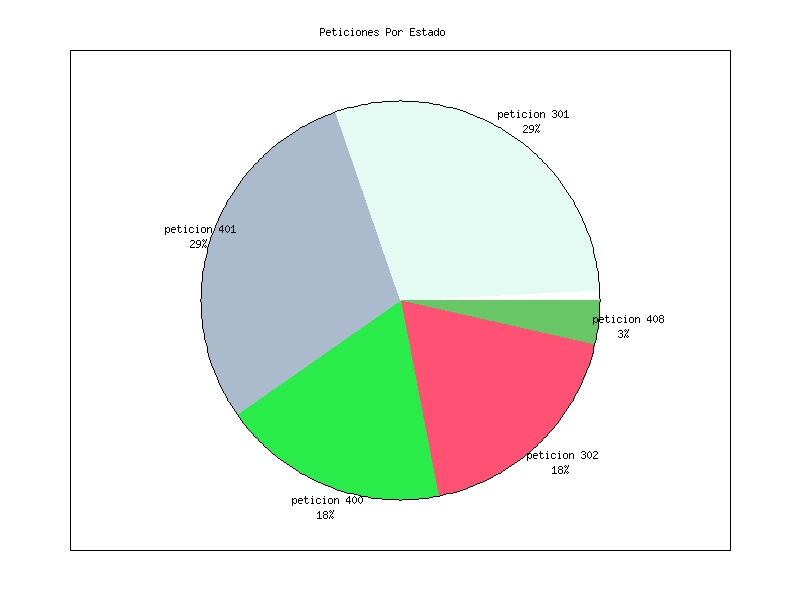
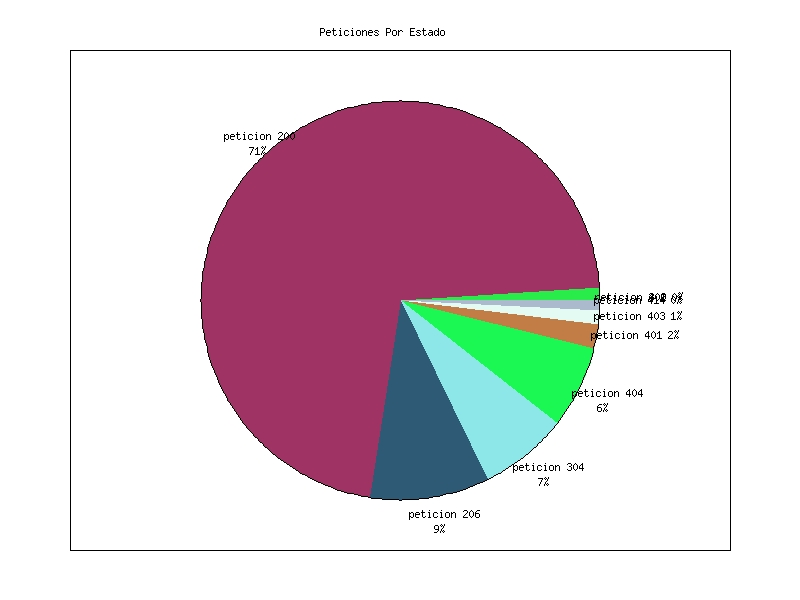
Listas las opciones -g -t y -v

Changed region(s): [[0.2188, 0.15, 0.8438, 0.87], [0.2812, 0.21, 0.3125, 0.24]]

diff --git a/Tarea01-2S.cpp b/Tarea01-2S.cpp
@@ -25,7 +25,7 @@ void informacion(){
     strftime( fechayhora, 80, "%Y-%m-%d %X", punterotm);
     printf("Fecha de Compilaci\242n: %d-%02d-%02d %s", YEAR, MONTH +1, DAY, __TIME__);
     printf("\nFecha y hora actual: %s", fechayhora);
-    printf("\nVersion 0.0.1");
+    printf("\nVersion 0.0.9");
     printf("\n\nIntegrantes: \n Alejandra Mu\xA4oz\n Henry Sep\243lveda\n");
 }
 
@@ -64,7 +64,7 @@ void opciong(char *fecha_inicio, char *fecha_termino){
             //Copia el resultado de la consulta al arreglo
             for (i=0; i<tuplas; i++) {         
                 cantpetpormes[atoi(PQgetvalue(res,i,0))-1] = atol(PQgetvalue(res,i,1));
-                
+                /*
                 for (j=0; j<campos; j++) {
                     printf(" %s ", PQgetvalue(res,i,j));
                     if (j==0){                         //No repetir linea vertical
@@ -72,7 +72,7 @@ void opciong(char *fecha_inicio, char *fecha_termino){
                     }
                 }
                 printf("\n"); 
-                
+               */ 
              }
             graficobarras(cantpetpormes); 
             printf("\nEl grafico de barras ha sido guardado como grafico.jpg en el directorio actual\n");
@@ -103,7 +103,7 @@ void opciont(char *fecha_inicio, char *fecha_termino){
         
         if (PQstatus(conn) != CONNECTION_BAD){       //Si la coneccion es exitosa...
             memset(sql, 0, sizeof (sql));
-            snprintf(sql, 512, "select count(peticion) as cant_pet, estado FROM isw.accesos where fecha BETWEEN '%s 00:00:00' AND '%s 23:59:59'group by estado ORDER BY cant_pet limit 5;", fecha_inicio, fecha_termino);
+            snprintf(sql, 512, "select count(peticion) as cant_pet, estado FROM isw.accesos where fecha BETWEEN '%s 00:00:00' AND '%s 23:59:59'group by estado ORDER BY cant_pet;", fecha_inicio, fecha_termino);
             res = PQexec(conn, sql);
                     
             printf(" Coneccion exitosa.\n");

diff --git a/graficador.c b/graficador.c
@@ -110,7 +110,7 @@ void graficobarras(long peticiones[]) {
                 // Etiqueta del Mes  
                 gdImageString(imagen, fuente, ancho + 15, IMG_HEIGHT - BORDE_ALTO + 5, (unsigned char *) etiquetaMes(mes), negro);
                 // Monto
-                gdImageString(imagen, fuente, ancho, IMG_HEIGHT - (BORDE_ALTO + alto + 20), (unsigned char *) longStr(peticiones[mes]), negro);
+                gdImageString(imagen, fuente, ancho + 4, IMG_HEIGHT - (BORDE_ALTO + alto + 20), (unsigned char *) longStr(peticiones[mes]), negro);
                 ancho += 55;
            }else
                 encoger++;

diff --git a/graficadortorta.c b/graficadortorta.c
@@ -63,6 +63,10 @@ void graficotorta(int n, long cantidad[], int estado[]) {
              //Etiqueta de porcentaje
             memset(etiqueta, 0, 513);
             snprintf(etiqueta, 512, "%s%%",longStr(cantidad[i]*100/suma));
+            if (cantidad[i]*100/suma<3){      //Para que la etiqueta sea legible
+                xEtiqueta = xEtiqueta + 52;
+                yEtiqueta = yEtiqueta - 15;
+            }
             gdImageString(imagen, fuente, xEtiqueta, yEtiqueta+15, (unsigned char *) etiqueta, negro);
             iniciotrozo = (int) iniciotrozo+cantidad[i]*eqgrados;
         }
